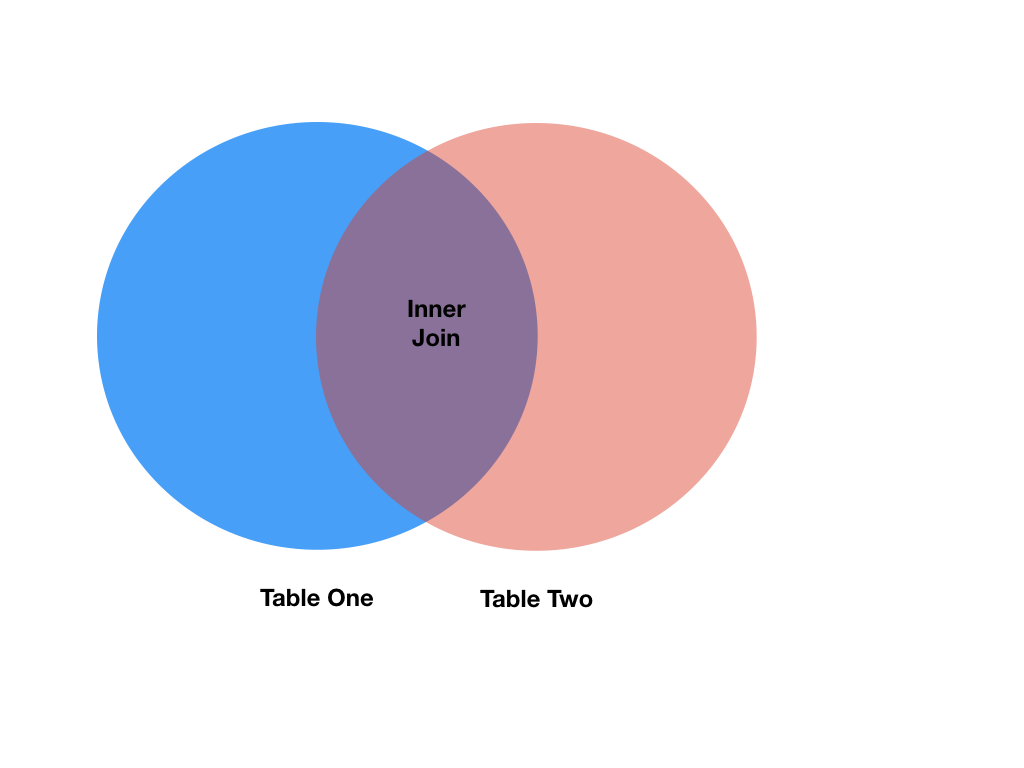
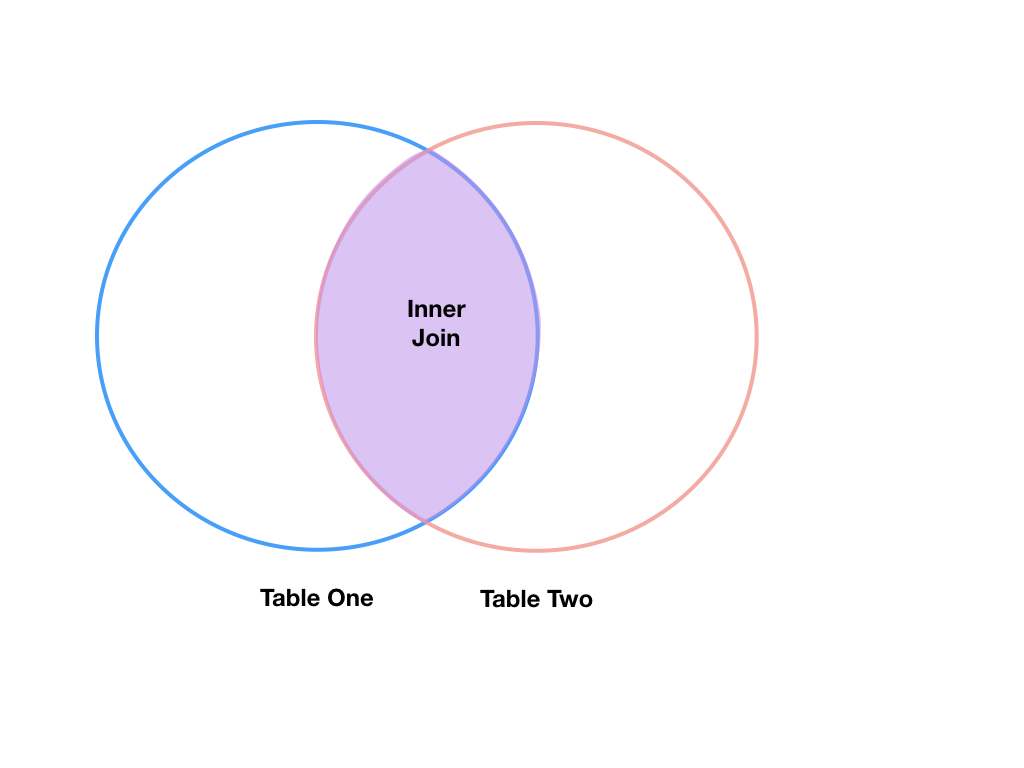
04-merging-data.md: new join images
Closes datacarpentry/python-ecology-lesson/issues/282

diff --git a/episodes/04-merging-data.md b/episodes/04-merging-data.md
@@ -227,7 +227,7 @@ Inner joins yield a DataFrame that contains only rows where the value being
 joins exists in BOTH tables. An example of an inner join, adapted from [this
 page](http://blog.codinghorror.com/a-visual-explanation-of-sql-joins/) is below:
 
-![Inner join -- courtesy of codinghorror.com](http://blog.codinghorror.com/content/images/uploads/2007/10/6a0120a85dcdae970b012877702708970c-pi.png)
+![Inner join -- courtesy of codinghorror.com](../fig/inner-join.png)
 
 The pandas function for performing joins is called `merge` and an Inner join is
 the default option:  
@@ -308,7 +308,7 @@ for those columns in the resulting joined DataFrame.
 Note: a left join will still discard rows from the `right` DataFrame that do not
 have values for the join key(s) in the `left` DataFrame.
 
-![Left Join](http://blog.codinghorror.com/content/images/uploads/2007/10/6a0120a85dcdae970b01287770273e970c-pi.png)
+![Left Join](../fig/left-join.png)
 
 A left join is performed in pandas by calling the same `merge` function used for
 inner join, but using the `how='left'` argument:
